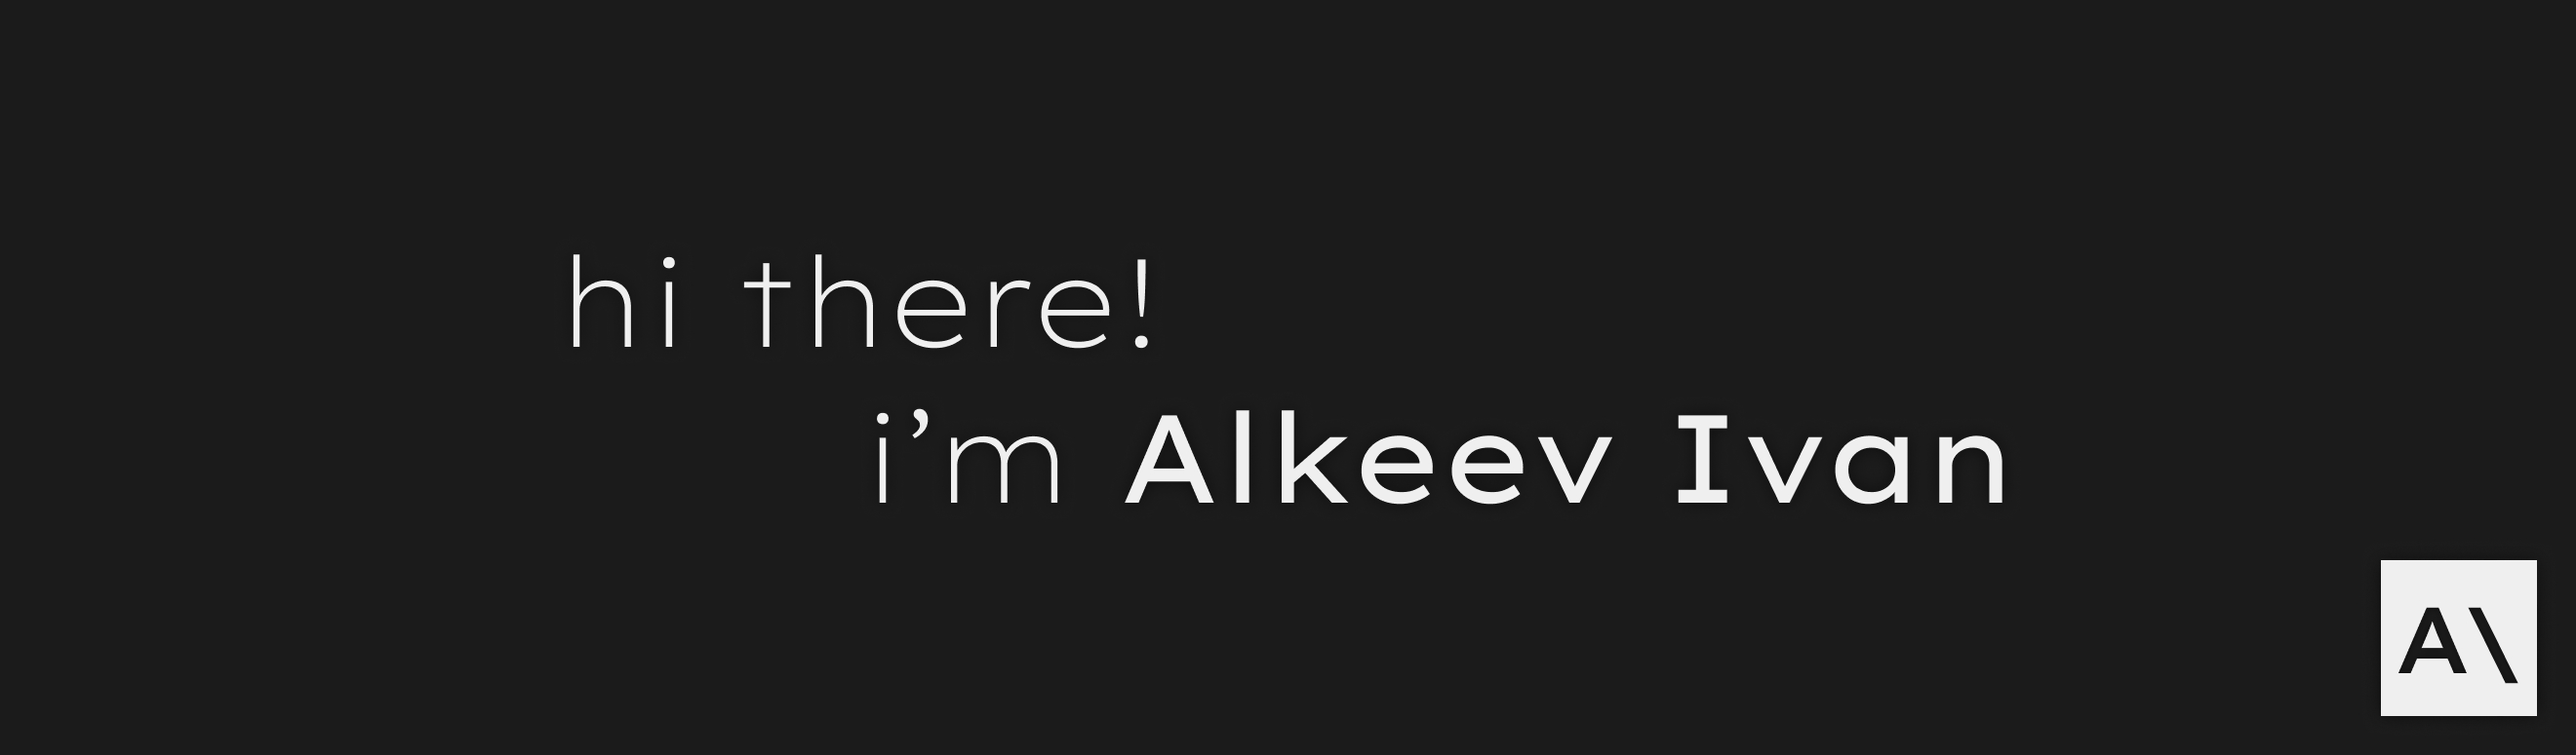
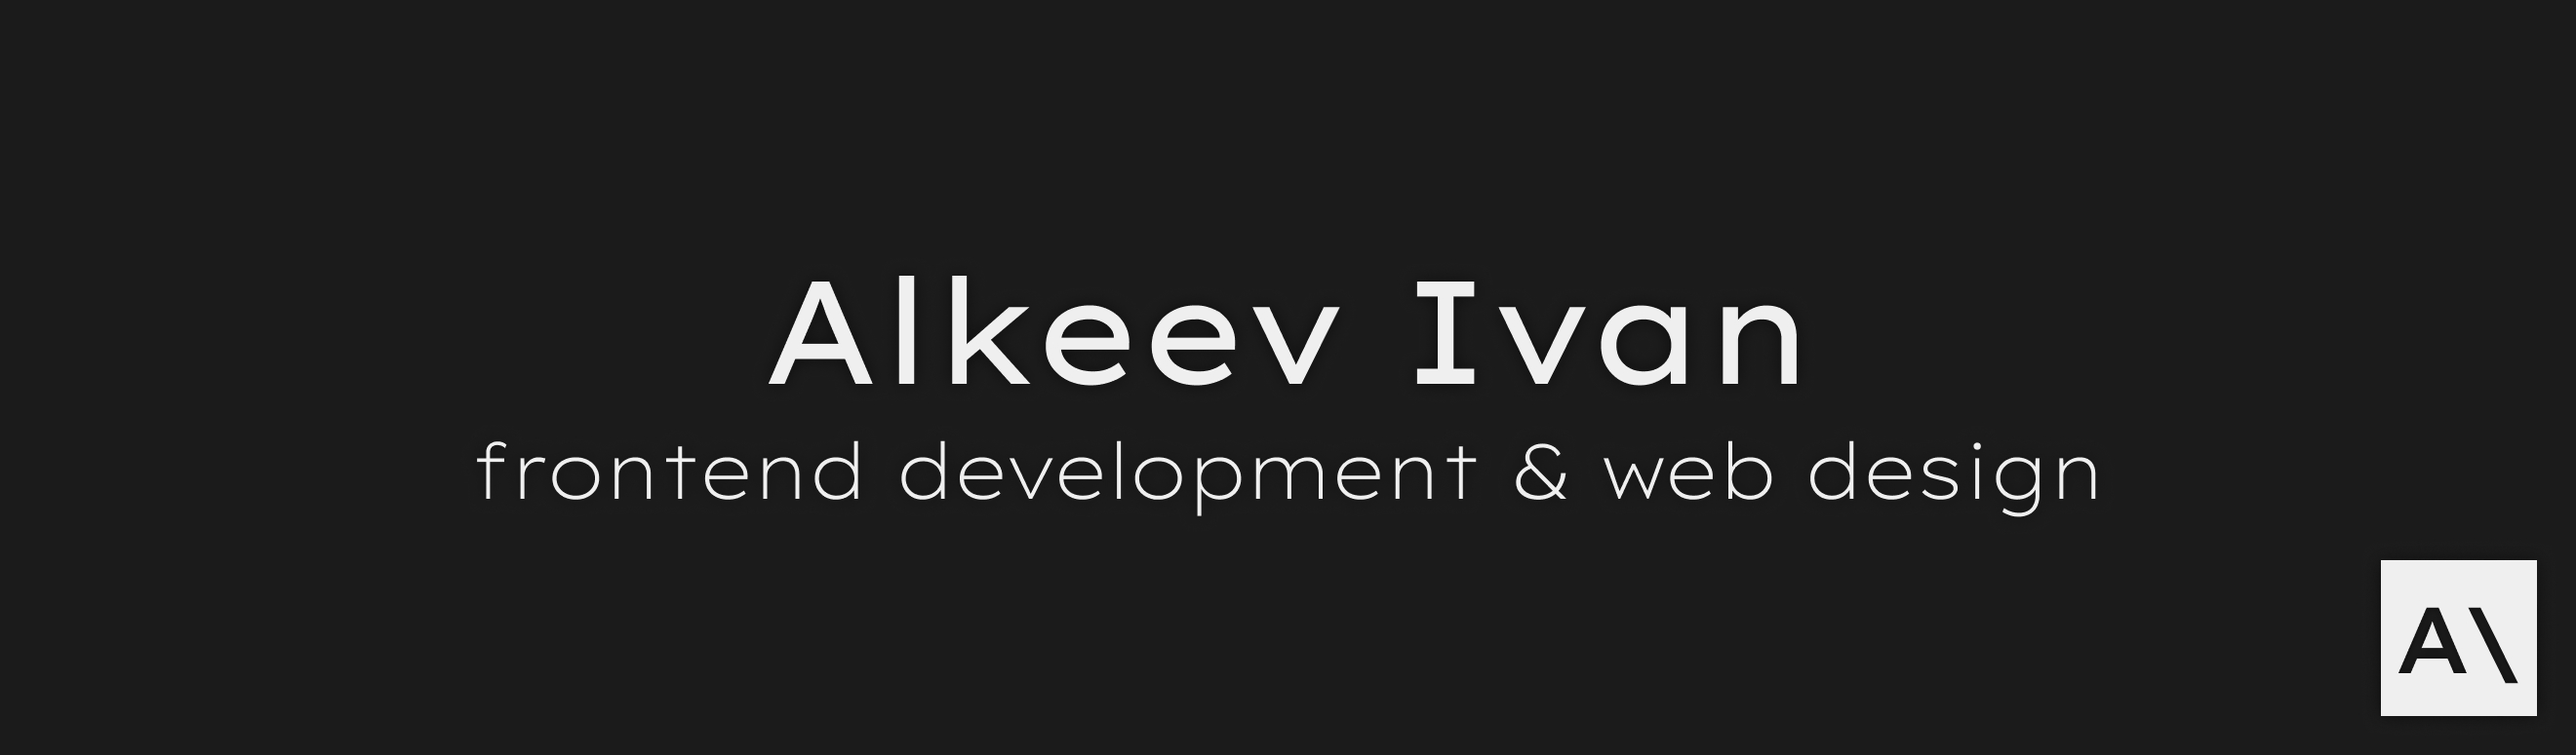
add header

Changed region(s): [[0.1863, 0.3716, 0.8073, 0.6813], [0.2173, 0.3716, 0.2484, 0.4645], [0.4347, 0.3406, 0.4657, 0.3716]]

diff --git a/README.md b/README.md
@@ -1,3 +1,5 @@
 <h1 align="center">
-  <img src="https://github.com/alkeev00/alkeev00/blob/main/assets/header.jpg" alt="Alkeev Ivan"/>
+  <img src="" alt="Alkeev Ivan"/>
 </h1>
+
+<a href="https://git.io/typing-svg"><img src="https://readme-typing-svg.herokuapp.com?font=Lexend+Exa&weight=200&size=24&duration=3000&pause=1000&color=EFEFEF&background=1B1B1B00&repeat=false&width=700&height=40&lines=i+am+a+frontend+developer+and+web+designer" alt="Typing SVG" /></a>
